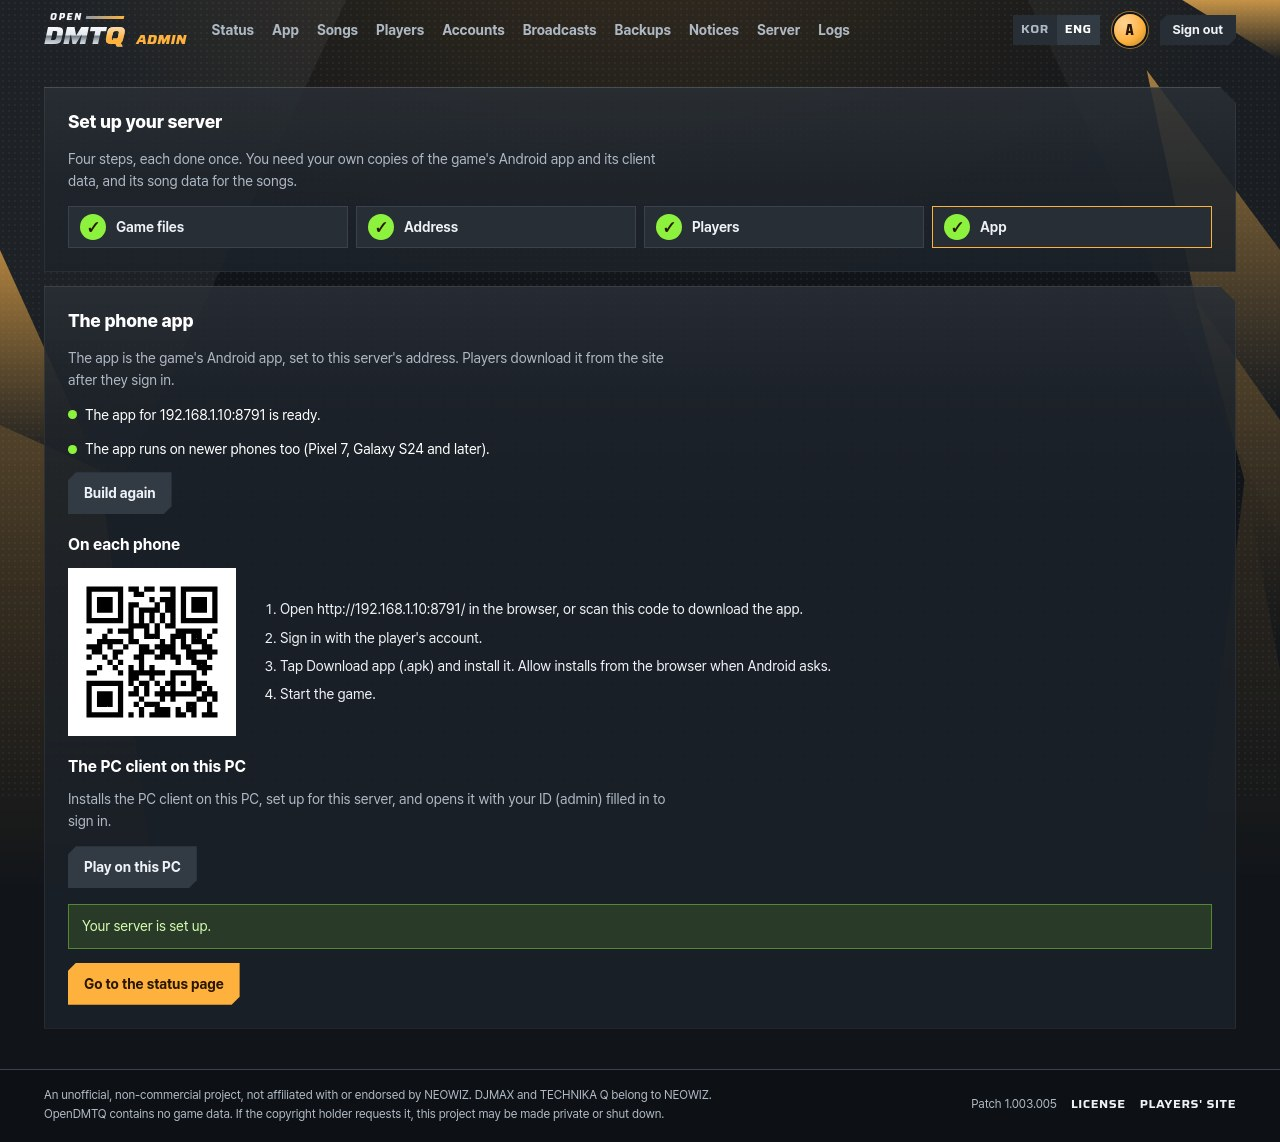
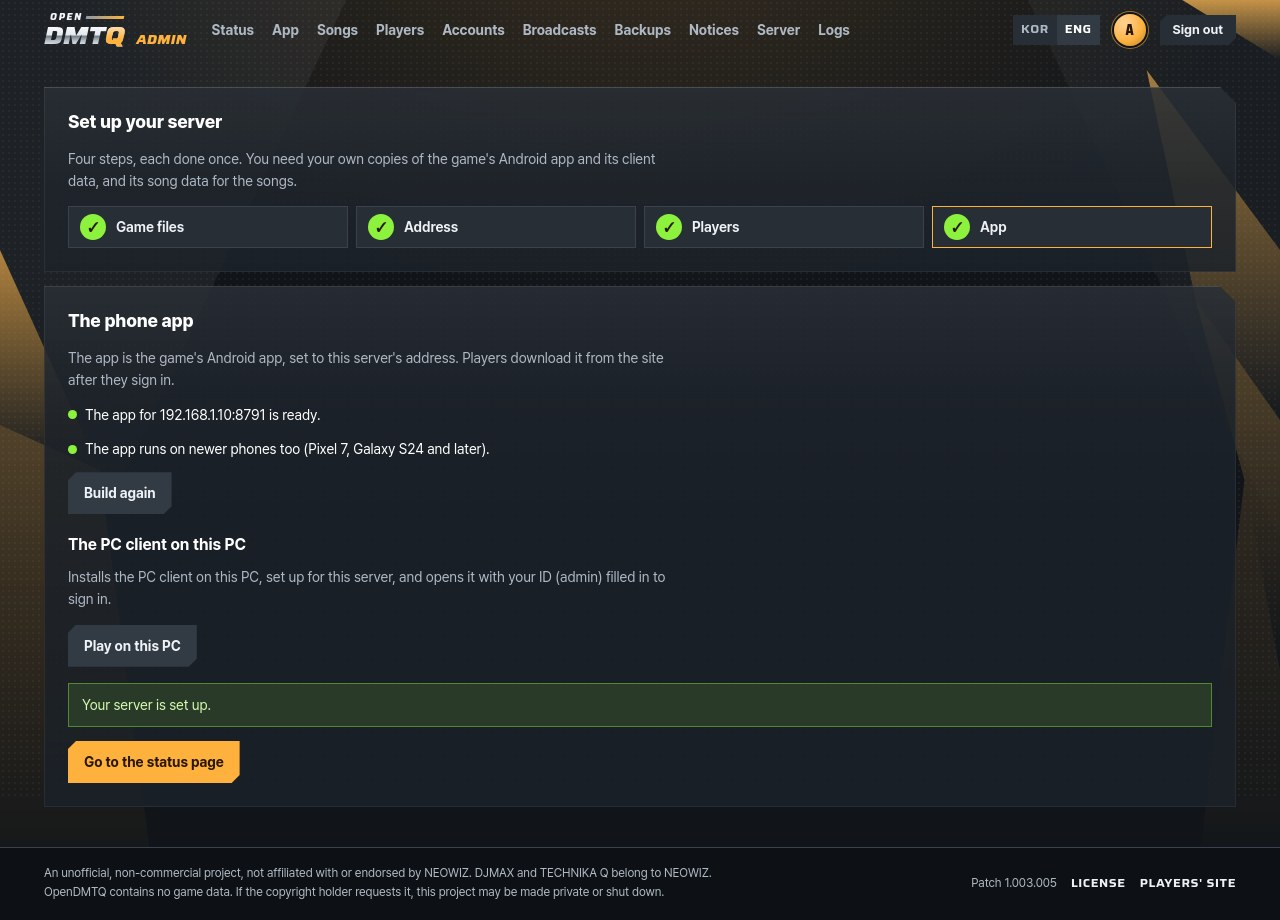
Docs: the admin pages' pictures as they are now
The setup's last step without the phone's steps and their code, the App page saying the app's name is set on the
Server page, a player's page without the lines of what a song earns and what each currency buys, the Notices page's new
webhook hearing of every event as its form comes, and the Server page with the app's name card, each at 0.11.1 with
the same made-up content, size and crop as before. The setup's and the Server page's words say what they show. The
setup's files, MY PAGE, the live page and the phone's pages show nothing new and stay as they were.

diff --git a/docs/admin.md b/docs/admin.md
@@ -87,7 +87,7 @@ is at `/opendmtq/admin/setup`, and the status page leads there until every step 
    Windows bundle's server PC itself. Players install the app as [playing on a server](play.md) says; the status page's
    **Add a player** card has the code that downloads it.
 
-![The setup's last step on the server PC: the app ready for 192.168.1.10:8791, the QR code and what to do on each phone, and Play on this PC](images/setup-app.jpg)
+![The setup's last step on the server PC: the app ready for 192.168.1.10:8791, newer phones included, Build again, Play on this PC, and the server set up with the way to the status page](images/setup-app.jpg)
 
 With Docker Compose the pages run in a container and cannot see the PC's folders, so the first two steps name the
 commands instead (`./opendmtq import --songs <folder>`, `./opendmtq host <address>`), which restart the containers. The
@@ -227,7 +227,7 @@ of the restored data; a server with no webhook, account or player of its own yet
 The server's own life in one place, a card each:
 
 <p align="center">
-  <img src="images/admin-server.jpg" alt="The Server page of a Windows bundle: running at its one address with the admin pages under it, Restart and Stop the server, the server's port with Move to this port, the owner's password, Check and repair, the server's data part by part with each size and a backup first, and Uninstall with what it removes" width="100%">
+  <img src="images/admin-server.jpg" alt="The Server page of a Windows bundle: running at its one address with the admin pages under it, Restart and Stop the server, the server's port with Move to this port, the app's name with Change the name, the owner's password, Check and repair, the server's data part by part with each size and a backup first, and Uninstall with what it removes" width="100%">
 </p>
 
 - **The server:** its state, its one address (the site, with these pages under `/opendmtq/admin/`), where these pages
